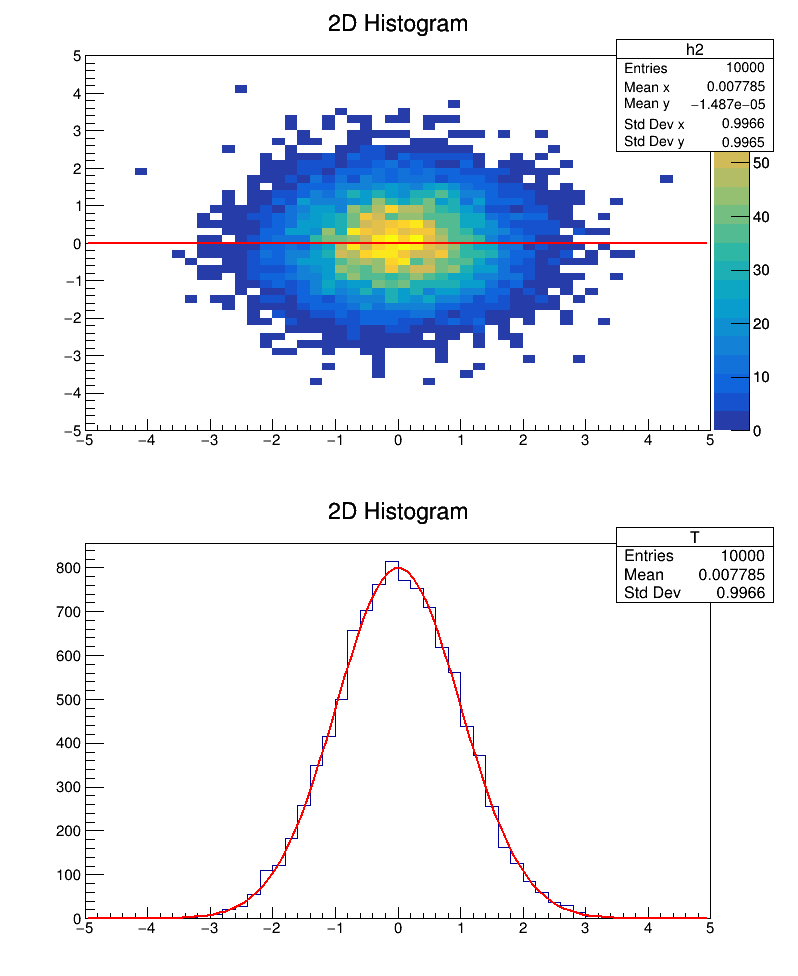
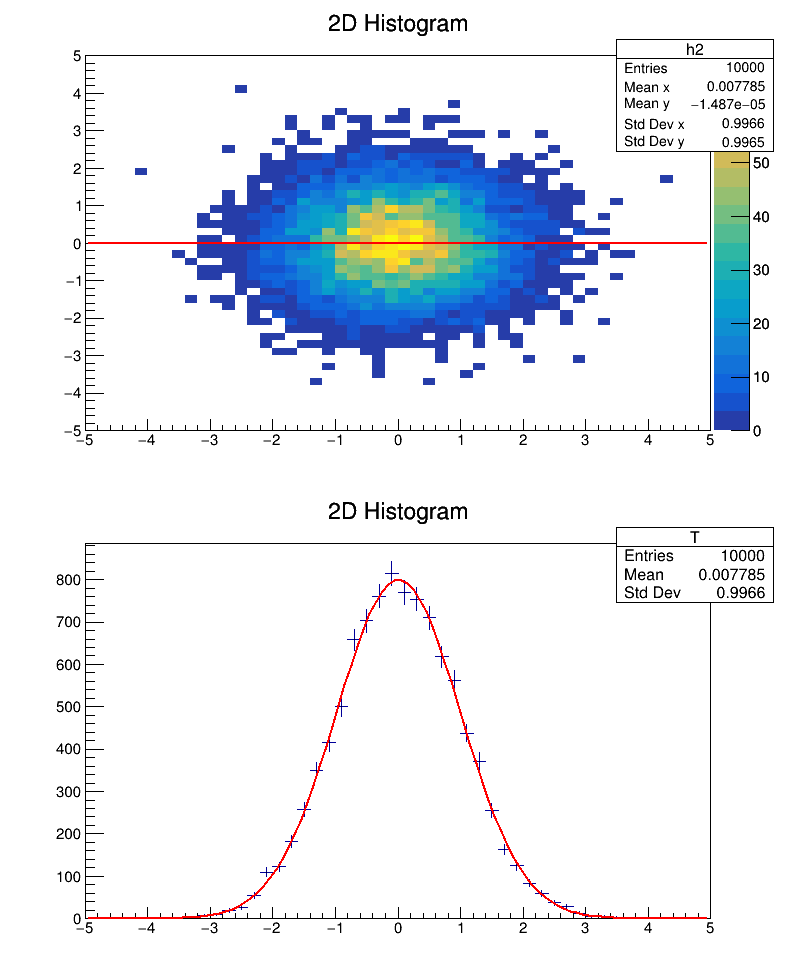
標準誤差の検討変更(上手くいかない)

diff --git a/src/analysis.cpp b/src/analysis.cpp
@@ -16,8 +16,8 @@
 #include <limits>
 #include <TF2.h>
 //2次元ヒストグラムの最小値から最大値
-const Int_t x_min = 0, x_max = 128,
-            y_min = 0, y_max = 128;
+const Int_t x_min = 50, x_max = 70,
+            y_min = 0, y_max = 20;
 //
 all_delete p;
 TFile *file = nullptr;
@@ -101,7 +101,7 @@ void MyClass::Loop(Int_t entry_num, bool opt_Red, bool opt_sub, bool opt_fit){
    std::vector<block> cluster;
    Long64_t nentries;
    UShort_t weight[128][128];
-
+   double totalWeight = 0.0;
    if (fChain == 0) return;
 
    nentries = fChain->GetEntriesFast();
@@ -111,6 +111,7 @@ void MyClass::Loop(Int_t entry_num, bool opt_Red, bool opt_sub, bool opt_fit){
       for(Long64_t j = y_min; j < y_max; j++){
          h1->Fill(ADC[i][j]);
          weight[i][j] = ADC[i][j];
+         totalWeight += weight[i][j];
       }
    }
    //閾値の設定
@@ -138,8 +139,10 @@ void MyClass::Loop(Int_t entry_num, bool opt_Red, bool opt_sub, bool opt_fit){
    else{
       for(int i = x_min; i < x_max; i++){
          for(int j = y_min; j < y_max; j++){
-            if(weight[i][j])
+            if(weight[i][j]){
+               //double sqrtWeight = std::sqrt(weight[i][j]);
                h2->Fill(i, j, weight[i][j]);
+            }
          }
       }
    }
@@ -155,7 +158,7 @@ void MyClass::Loop(Int_t entry_num, bool opt_Red, bool opt_sub, bool opt_fit){
    TCanvas *c1 = new TCanvas("c1", "2D Histogram", 650, 700);
    c1->Divide(1,2);
    c1->cd(1);
-   h2->SetStats(0);
+   //h2->SetStats(0);
    h2->Draw("COLZ");
    TBox *box = nullptr;
    if(opt_Red) highlight(weight, box, threshold, opt_sub);
@@ -171,7 +174,7 @@ void MyClass::Loop(Int_t entry_num, bool opt_Red, bool opt_sub, bool opt_fit){
    double pvalue = gaus->GetProb();
    std::cout << "p-value: " << pvalue << std::endl; 
 
-   pj->Draw("HIST");
+   pj->Draw("");
    gaus->Draw("SAME");
    c1->Update();
 }

diff --git a/src/test06.cpp b/src/test06.cpp
@@ -1,0 +1,53 @@
+#include <iostream>
+#include <TH2D.h>
+#include <TH1D.h>
+#include <TCanvas.h>
+#include <TRandom3.h>
+#include <TF1.h>
+
+void weightedProjection() {
+    // ランダム生成の初期化
+    TRandom3 rand(0);
+
+    // 2次元ヒストグラムの作成
+    int nBinsX = 40;
+    int nBinsY = 40;
+    double xMin = -4.0, xMax = 4.0;
+    double yMin = -4.0, yMax = 4.0;
+    TH2D *h2 = new TH2D("h2", "2D Histogram with Weights", nBinsX, xMin, xMax, nBinsY, yMin, yMax);
+
+    // データの生成と重み付け
+    int nEntries = 100;
+    for (int i = 0; i < nEntries; ++i) {
+        double x = rand.Gaus(0, 1);  // 平均0、標準偏差1のガウス分布
+        double y = rand.Gaus(0, 1);  // 平均0、標準偏差1のガウス分布
+        double weight = rand.Uniform(0.5, 1.5);  // 重みは0.5から1.5の一様分布
+
+        h2->Fill(x, y, weight);
+    }
+
+    // 2次元ヒストグラムの描画
+    TCanvas *c1 = new TCanvas("c1", "2D Histogram", 800, 600);
+    h2->Draw("COLZ");
+    c1->SaveAs("2D_Histogram_With_Weights.png");
+
+    // X軸に沿ったプロジェクション
+    TH1D *projX = h2->ProjectionX("projX", 1, -1, "e");
+
+    // プロジェクションの標準誤差計算
+    double stddev = projX->GetStdDev();
+    double n = projX->GetEntries();
+    double standardError = stddev / sqrt(n);
+
+    std::cout << "Standard Error: " << standardError << std::endl;
+
+    // 1次元ヒストグラムの描画
+    TCanvas *c2 = new TCanvas("c2", "Projection on X-axis", 800, 600);
+    projX->Draw();
+    c2->SaveAs("ProjectionX_With_Weights.png");
+}
+
+int main() {
+    weightedProjection();
+    return 0;
+}

diff --git a/src/test05.cpp b/src/test05.cpp
@@ -28,7 +28,7 @@ void fit_gaussian_2D() {
     c1->cd(2);
     TH1D *pj = (TH1D*)h2->ProjectionX("T");
     pj->Fit("gaus");
-    pj->Draw();
+    pj->Draw("E");
     gaus->Draw("SAME");
 
     // 結果を保存
